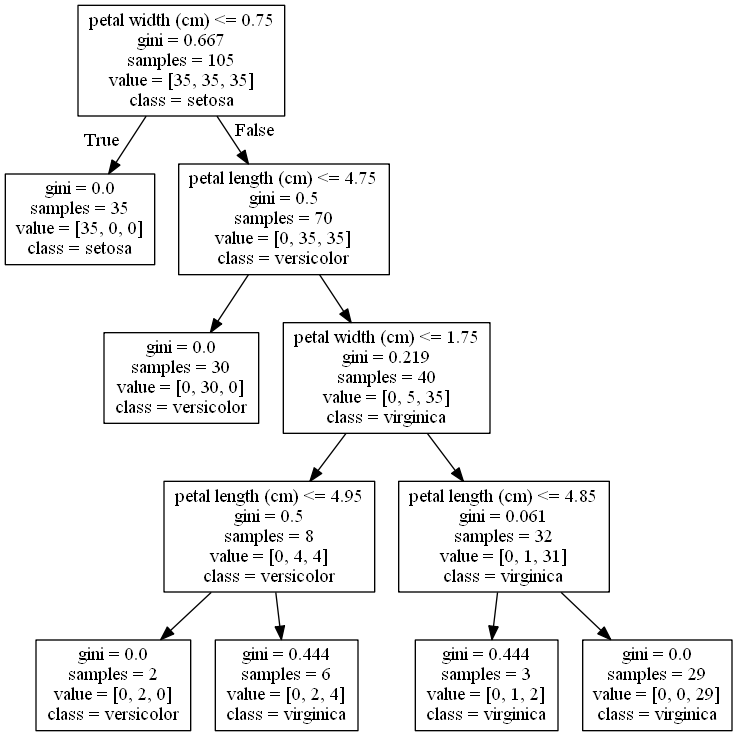
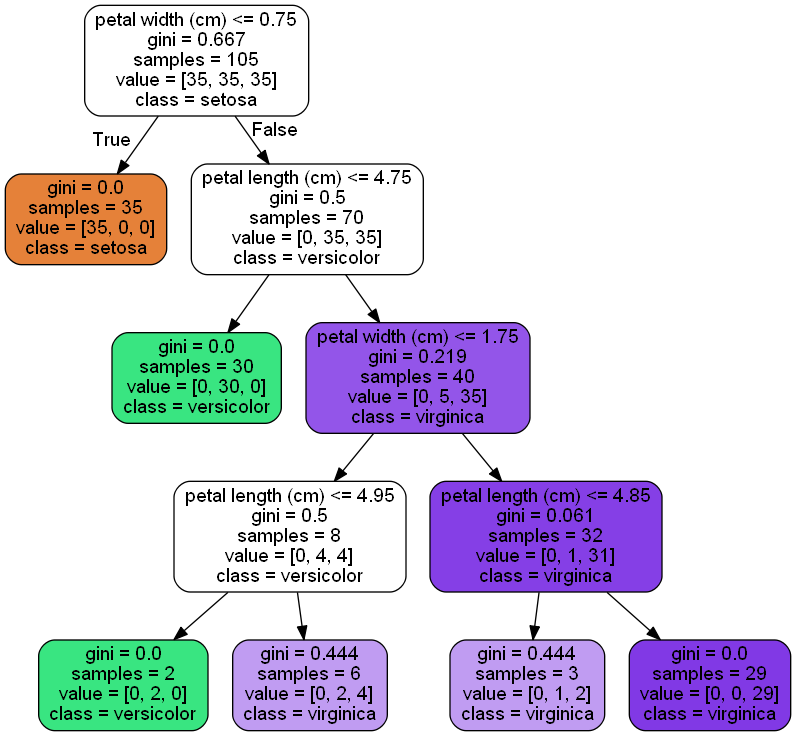
Update

diff --git a/datascience/sklearn/decisioGraph2.py b/datascience/sklearn/decisioGraph2.py
@@ -1,0 +1,72 @@
+#!/usr/bin/env python
+
+import numpy as np 
+from sklearn import datasets
+from sklearn.model_selection import train_test_split as splitit
+from sklearn.tree import DecisionTreeClassifier
+from pydotplus import graph_from_dot_data
+from sklearn.tree import export_graphviz
+
+
+print("######################################")
+
+from sklearn import datasets, neighbors, linear_model
+
+digits = datasets.load_digits()
+X_digits = digits.data / digits.data.max()
+y_digits = digits.target
+
+print(X_digits.dtype)
+print(y_digits.dtype)
+n_samples = len(X_digits)
+
+X_train = X_digits[:int(.9 * n_samples)]
+y_train = y_digits[:int(.9 * n_samples)]
+
+mytree3 = DecisionTreeClassifier(criterion='gini', max_depth=5, 
+                            random_state=1)
+
+mytree3.fit(X_train, y_train)
+
+
+dot_data = export_graphviz(mytree3, filled=True, rounded=True,
+                class_names=digits.target_names.astype('U10'),
+                out_file=None)
+
+graph = graph_from_dot_data(dot_data)
+graph.write_pdf('tree2.pdf')
+graph.write_png('tree2.png')
+
+
+
+digits_ = datasets.load_digits()
+digits_features = digits_.data
+digits_target = digits_.target
+print(np.unique(digits_target))
+print(digits_features[:5, :])
+
+print(digits_.images)
+print(digits_.target_names)
+digits_.DESCR 
+
+
+
+
+Xd_train = digits_features
+yd_train = digits_target
+
+# fit the Decision tree model
+mytree2 = DecisionTreeClassifier(criterion='gini', max_depth=4, 
+                            random_state=1)
+
+mytree2.fit(Xd_train, yd_train)
+
+# Graphing the tree structure
+dot_data = export_graphviz(mytree2, filled=True, rounded=True,
+                class_names=digits.target_names.astype('U10'),
+                feature_names=None,
+                out_file=None)
+
+graph = graph_from_dot_data(dot_data)
+graph.write_pdf('tree3.pdf')
+graph.write_png('tree3.png')

diff --git a/datascience/sklearn/decisionGraph.py b/datascience/sklearn/decisionGraph.py
@@ -32,7 +32,7 @@ mytree1 = DecisionTreeClassifier(criterion='gini', max_depth=4,
 mytree1.fit(Xi_train, yi_train)
 
 # Graphing the tree structure
-dot_data = export_graphviz(mytree1,
+dot_data = export_graphviz(mytree1, filled=True, rounded=True,
                 class_names=iris_.target_names,
                 feature_names=iris_.feature_names,
                 out_file=None)
